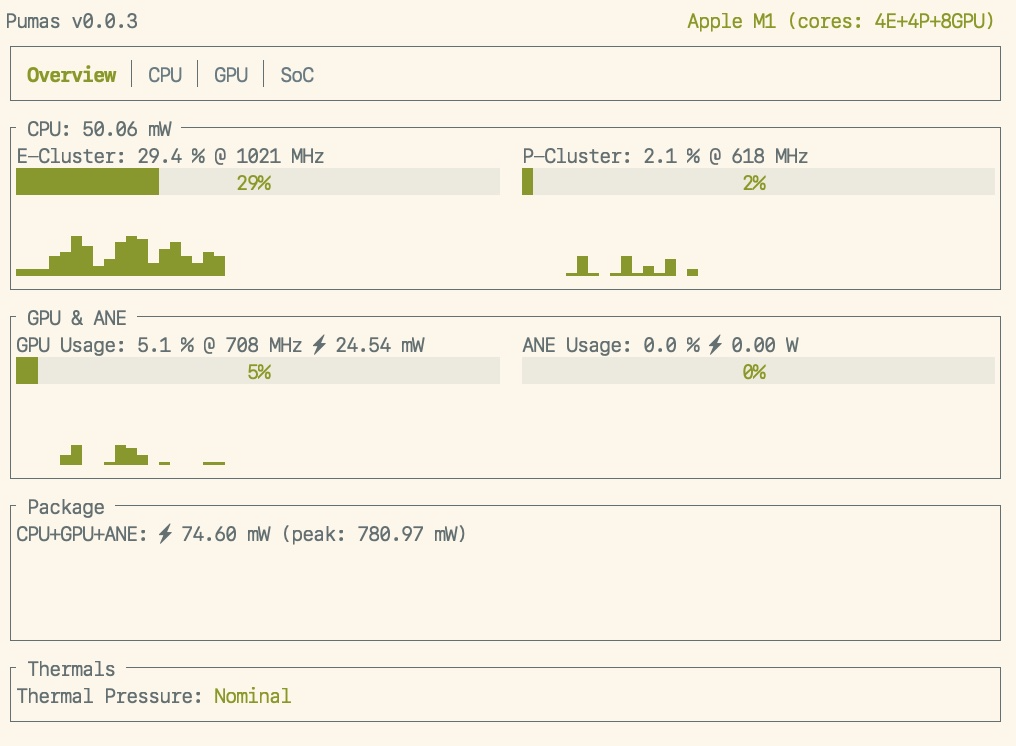
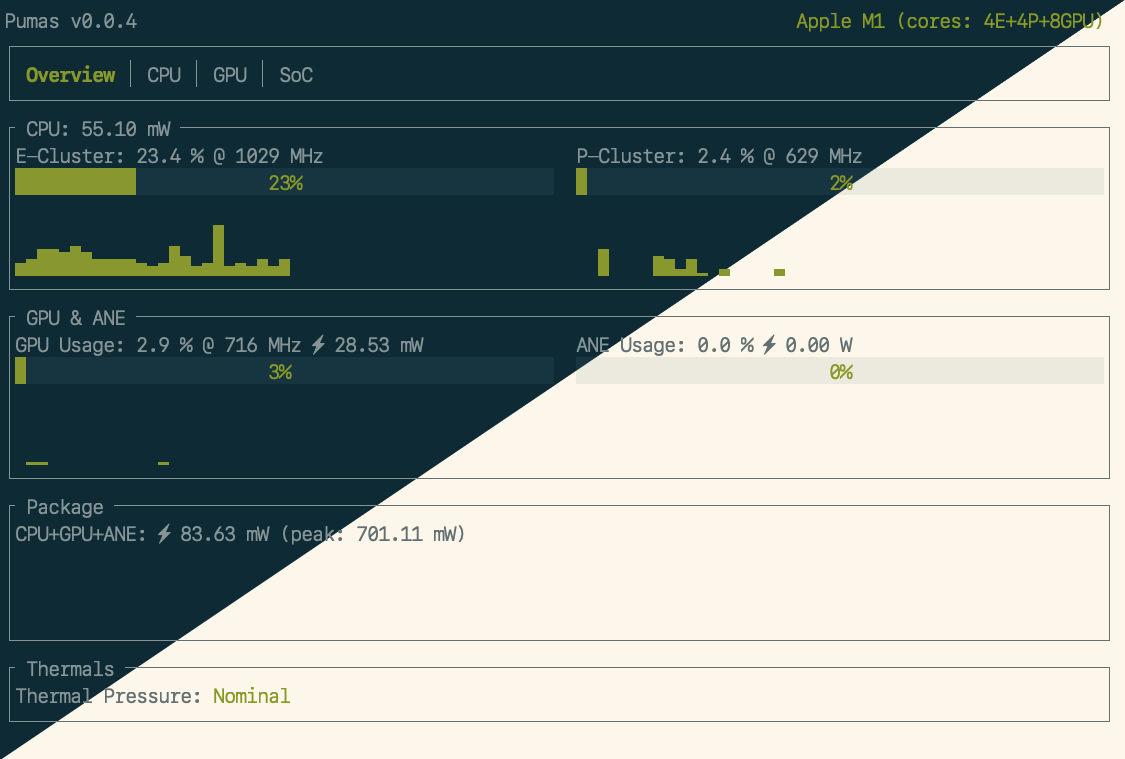
chore: update docs & screenshot
[skip ci]

diff --git a/src/lib.rs b/src/lib.rs
@@ -1,21 +1,98 @@
 #![warn(missing_docs)]
 
-//! A power usage monitor for Apple Silicon.
+//! A nvtop-inspired command line tool for Apple Silicon Macs: aka M1, M2, ... This is basically a
+//! reimplemented version of [asitop] in Rust.
 //!
-//! Version requirement: _rustc 1.64+_
+//! Utilization info:
 //!
-//! ## Features
+//! - CPU (E-cluster and P-cluster), GPU
+//! - Frequency and utilization
+//! - ANE utilization (measured by power)
 //!
-//! ![Screenshot](./images/screenshot.png)
+//! Memory info:
+//! - RAM and swap, size and usage
+//! - (Apple removed memory bandwidth from powermetrics)
+//!
+//! Power info:
+//! - CPU power, GPU power (Apple removed package power from powermetrics)
+//! - Chart for CPU/GPU power
+//! - Peak power, rolling average display
+//!
+//! Pumas uses the built-in `powermetrics` utility on macOS, which allows access to a
+//! variety of hardware performance counters. Note that it requires `sudo` to run due
+//! to powermetrics needing root access to run. Pumas is lightweight and has
+//! minimal performance impact.
+//!
+//! Pumas only works on Apple Silicon Macs on macOS Monterey and later.
 //!
 //! This is a work in progress.
 //!
-//! Note: because this leverages the macOS `powermetrics` command, this only works on macOS running
-//! on Apple Silicon and requires you to run it with `sudo`:
+//! ## Quickstart
 //!
 //! ```sh
 //! sudo pumas run
 //! ```
+//!
+//! ![Screenshot](./images/screenshot.png)
+//!
+//! ## Usage
+//!
+//! ```sh
+//! $ pumas --help
+//! A power usage monitor for Apple Silicon.
+//!
+//! Usage: pumas <COMMAND>
+//!
+//! Commands:
+//!   run                  Run the power usage monitor
+//!   generate-completion  Print a shell completion script to stdout
+//!   help                 Print this message or the help of the given subcommand(s)
+//!
+//! Options:
+//!   -h, --help     Print help
+//!   -V, --version  Print version
+//! ```
+//!
+//! and
+//!
+//! ```sh
+//! $ pumas run --help
+//! Run the power usage monitor
+//!
+//! Usage: pumas run [OPTIONS]
+//!
+//! Options:
+//!   -i, --sample-rate <SAMPLE_RATE_MS>  Rate at which metrics are sampled and displayed (milliseconds) [default: 1000]
+//!   -c, --color <COLOR>                 Choose display color (0~8) [default: 2]
+//!   -h, --help                          Print help
+//!   -V, --version                       Print version
+//! ```
+//!
+//! ## Details
+//!
+//! `powermetrics` is used to measure the following:
+//!
+//!   - CPU/GPU utilization via active residency
+//!   - CPU/GPU frequency
+//!   - Package/CPU/GPU/ANE energy consumption
+//!
+//! `psutil` is used to measure the following:
+//!
+//!   - memory and swap usage
+//!
+//! `sysctl` is used to measure the following:
+//!
+//!   - CPU name
+//!   - CPU core counts
+//!
+//! `system_profiler` is used to measure the following:
+//!
+//!   - GPU core count
+//!
+//! Some information is guesstimate and hardcoded as there doesn't seem to be a official source for
+//! it on the system:
+//!
+//!   - CPU/GPU TDP
 //!
 //! ## License
 //!
@@ -28,6 +105,7 @@
 //! be licensed as MIT, without any additional terms or conditions.
 //!
 //! [MIT license]: http://opensource.org/licenses/MIT
+//! [asitop]: https://github.com/tlkh/asitop
 
 mod app;
 pub mod config;

diff --git a/README.md b/README.md
@@ -10,22 +10,99 @@
 
 <!-- cargo-sync-readme start -->
 
-A power usage monitor for Apple Silicon.
+A nvtop-inspired command line tool for Apple Silicon Macs: aka M1, M2, ... This is basically a
+reimplemented version of [asitop] in Rust.
 
-Version requirement: _rustc 1.64+_
+Utilization info:
 
-## Features
+- CPU (E-cluster and P-cluster), GPU
+- Frequency and utilization
+- ANE utilization (measured by power)
 
-![Screenshot](./images/screenshot.png)
+Memory info:
+- RAM and swap, size and usage
+- (Apple removed memory bandwidth from powermetrics)
+
+Power info:
+- CPU power, GPU power (Apple removed package power from powermetrics)
+- Chart for CPU/GPU power
+- Peak power, rolling average display
+
+Pumas uses the built-in `powermetrics` utility on macOS, which allows access to a
+variety of hardware performance counters. Note that it requires `sudo` to run due
+to powermetrics needing root access to run. Pumas is lightweight and has
+minimal performance impact.
+
+Pumas only works on Apple Silicon Macs on macOS Monterey and later.
 
 This is a work in progress.
 
-Note: because this leverages the macOS `powermetrics` command, this only works on macOS running
-on Apple Silicon and requires you to run it with `sudo`:
+## Quickstart
 
 ```sh
 sudo pumas run
 ```
+
+![Screenshot](./images/screenshot.png)
+
+## Usage
+
+```sh
+$ pumas --help
+A power usage monitor for Apple Silicon.
+
+Usage: pumas <COMMAND>
+
+Commands:
+  run                  Run the power usage monitor
+  generate-completion  Print a shell completion script to stdout
+  help                 Print this message or the help of the given subcommand(s)
+
+Options:
+  -h, --help     Print help
+  -V, --version  Print version
+```
+
+and
+
+```sh
+$ pumas run --help
+Run the power usage monitor
+
+Usage: pumas run [OPTIONS]
+
+Options:
+  -i, --sample-rate <SAMPLE_RATE_MS>  Rate at which metrics are sampled and displayed (milliseconds) [default: 1000]
+  -c, --color <COLOR>                 Choose display color (0~8) [default: 2]
+  -h, --help                          Print help
+  -V, --version                       Print version
+```
+
+## Details
+
+`powermetrics` is used to measure the following:
+
+  - CPU/GPU utilization via active residency
+  - CPU/GPU frequency
+  - Package/CPU/GPU/ANE energy consumption
+
+`psutil` is used to measure the following:
+
+  - memory and swap usage
+
+`sysctl` is used to measure the following:
+
+  - CPU name
+  - CPU core counts
+
+`system_profiler` is used to measure the following:
+
+  - GPU core count
+
+Some information is guesstimate and hardcoded as there doesn't seem to be a official source for
+it on the system:
+
+  - CPU/GPU TDP
 
 ## License
 
@@ -38,5 +115,6 @@ for inclusion in the work by you, as defined in the MIT license, shall
 be licensed as MIT, without any additional terms or conditions.
 
 [MIT license]: http://opensource.org/licenses/MIT
+[asitop]: https://github.com/tlkh/asitop
 
 <!-- cargo-sync-readme end -->
